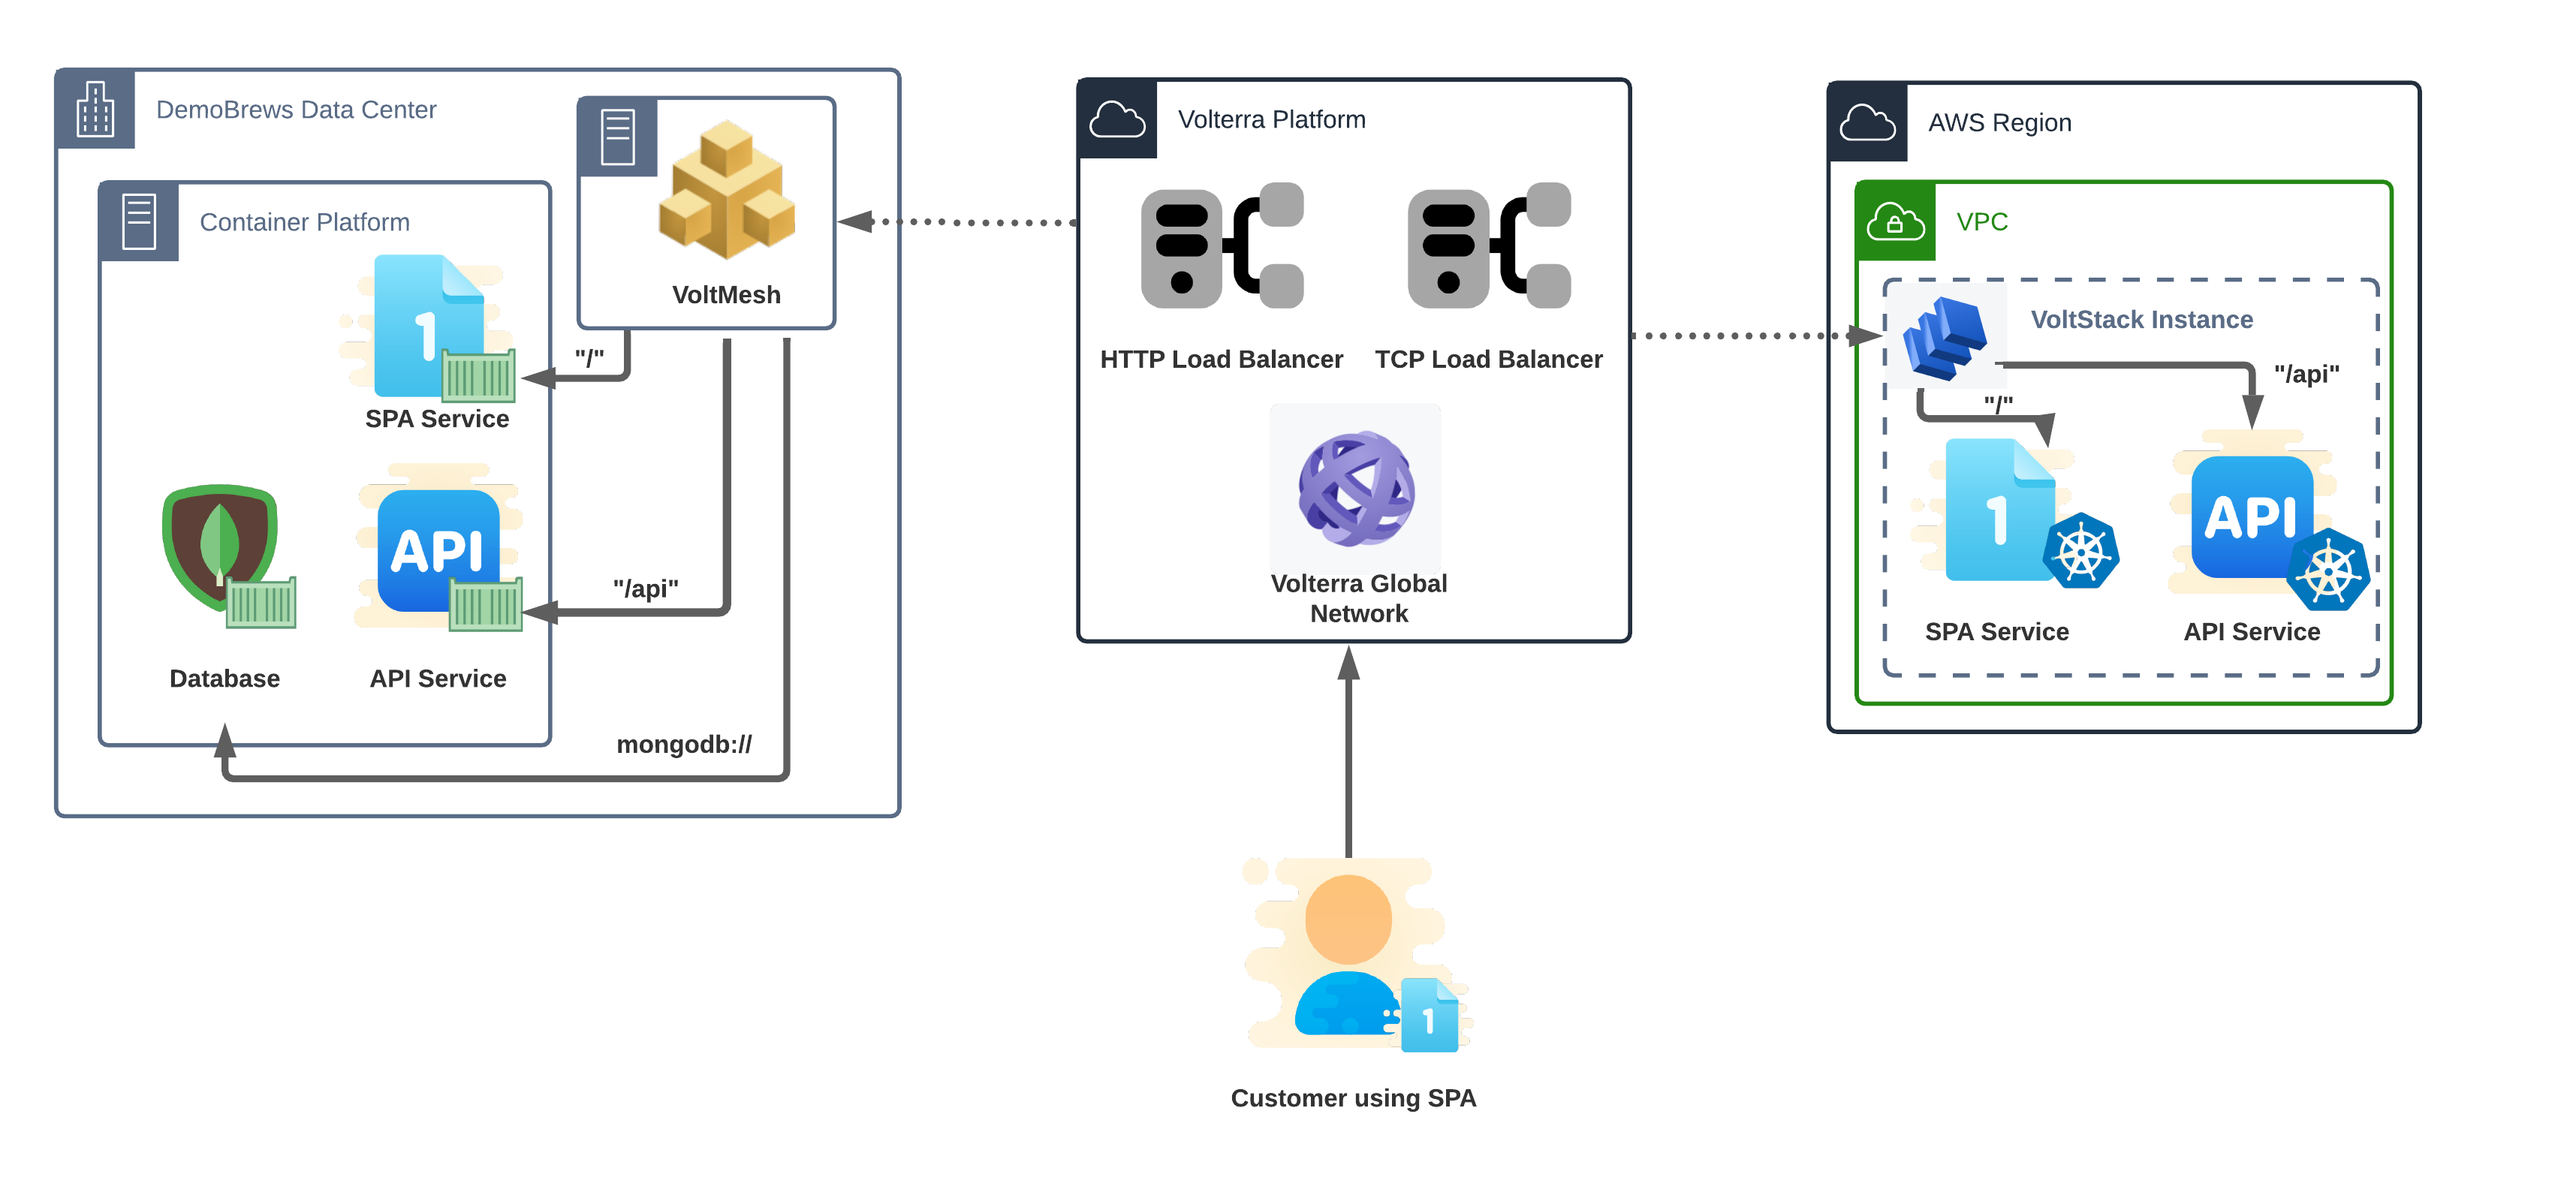
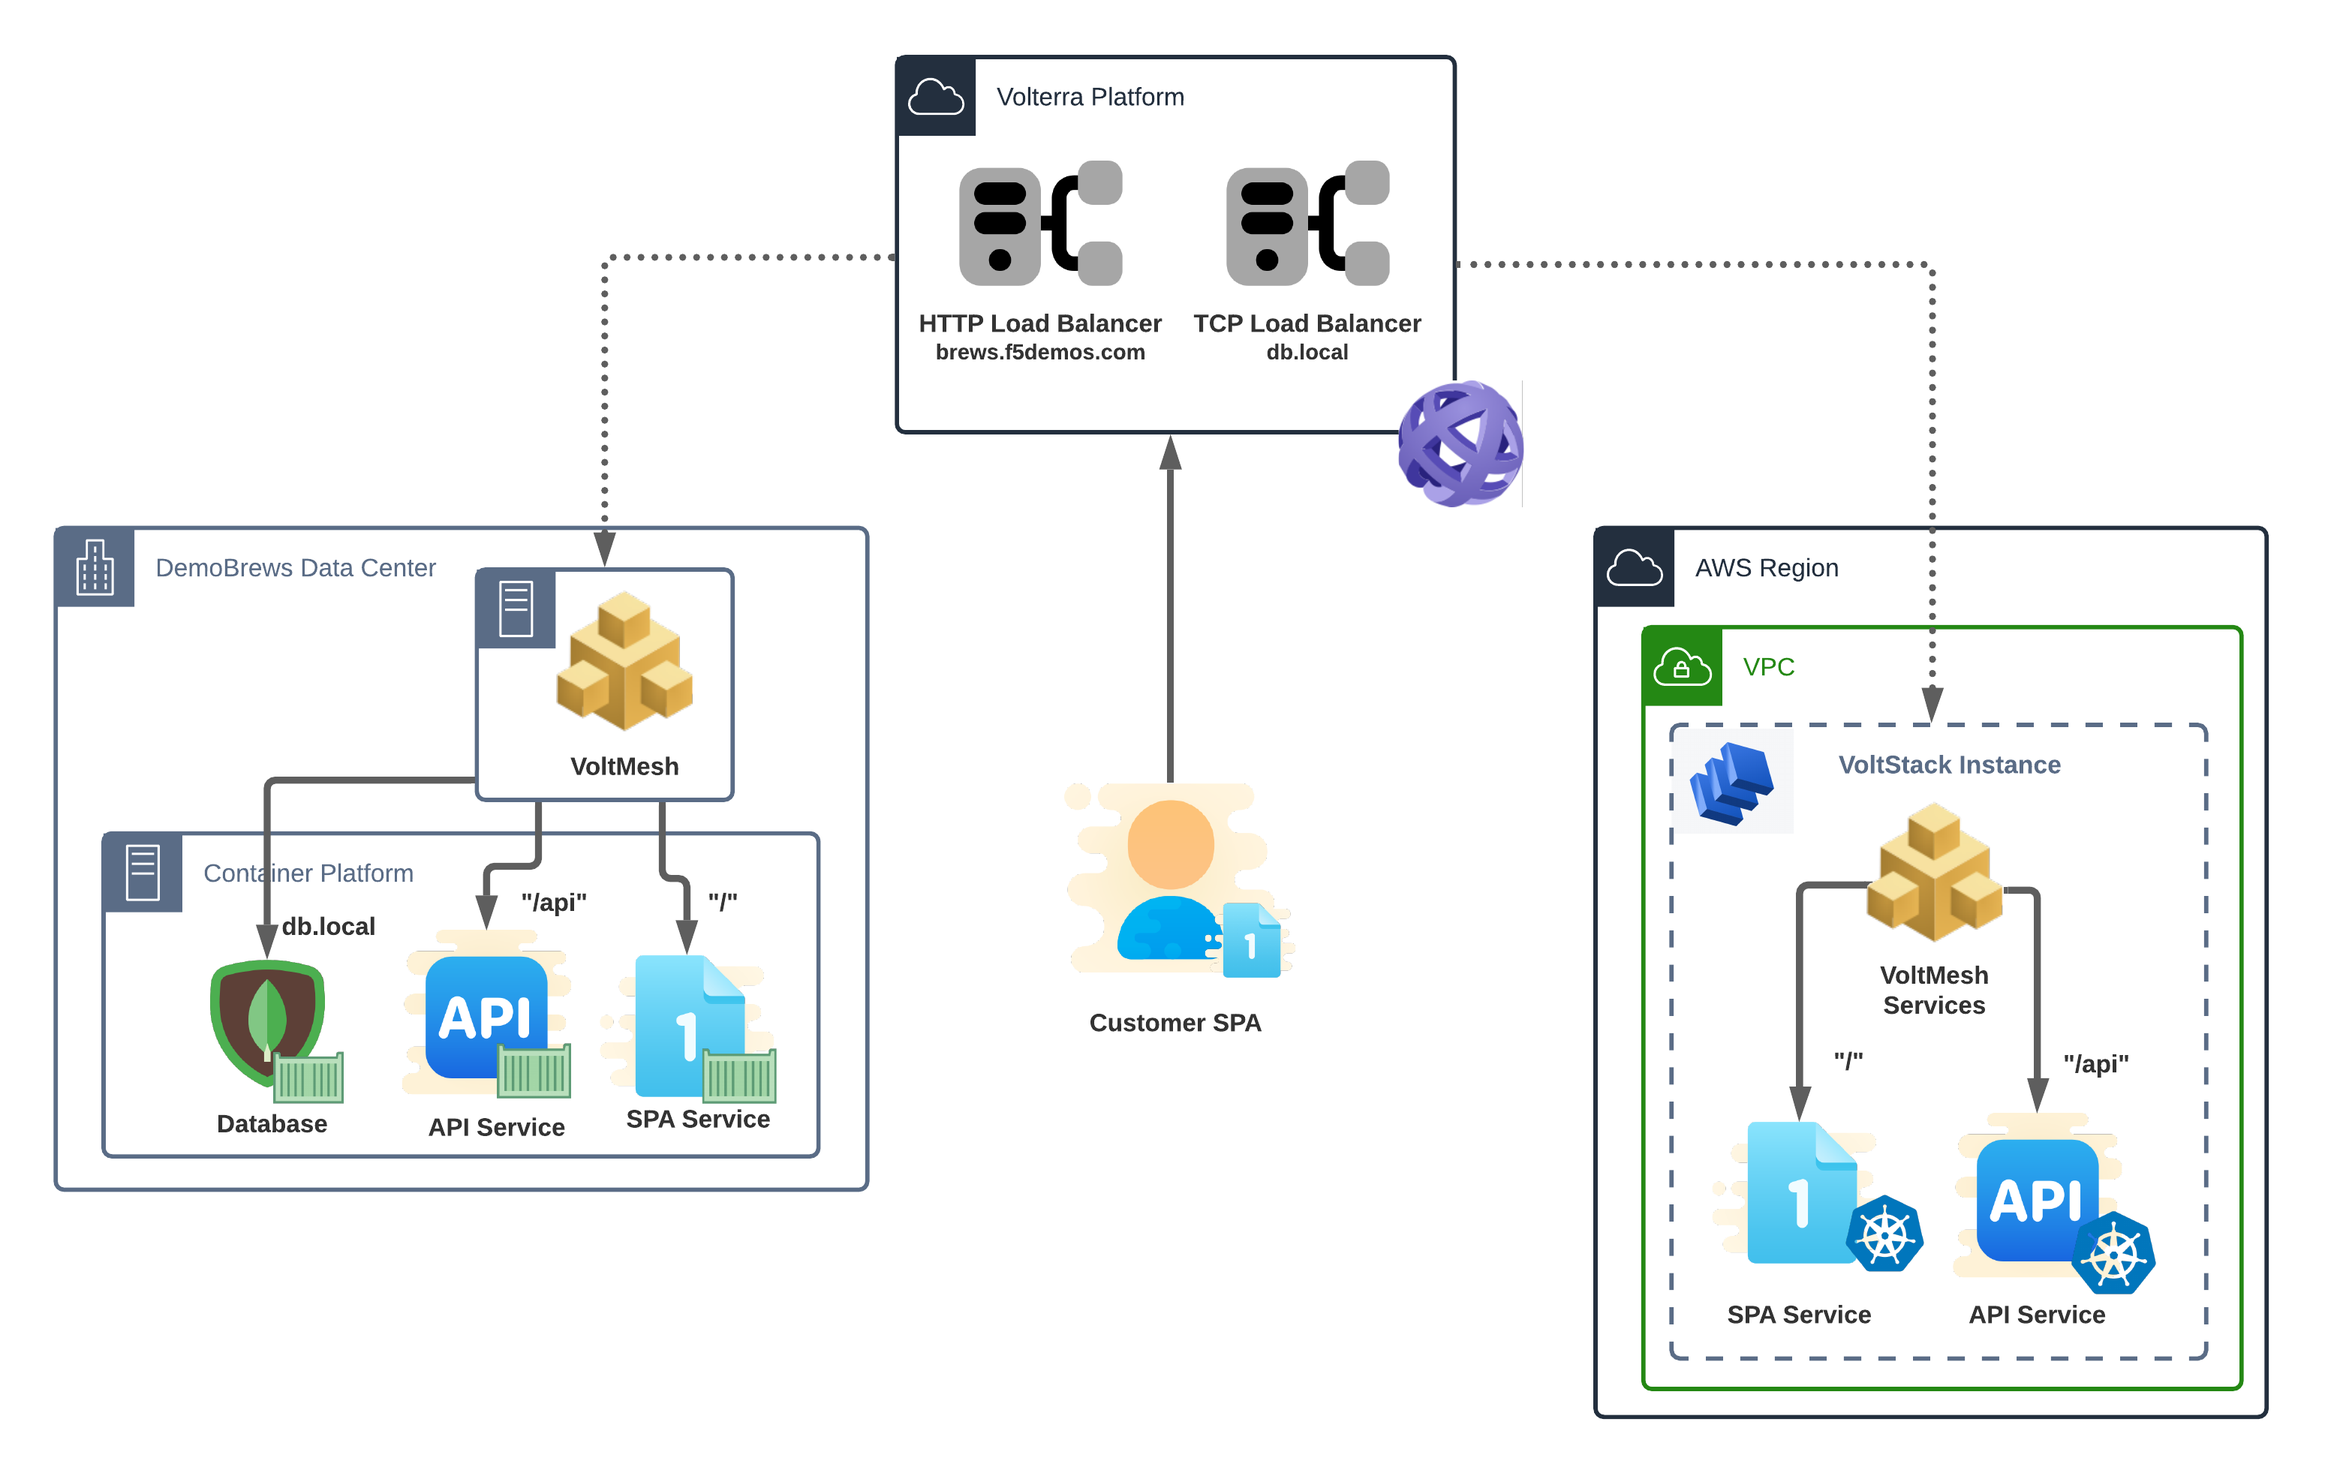
added updated diagrams

Changed region(s): [[0.0, 0.0307, 0.9903, 0.9825], [0.8975, 0.2149, 0.9284, 0.2456]]

diff --git a/application/docs/state4/index.rst b/application/docs/state4/index.rst
@@ -31,5 +31,5 @@ The architecture is now spread across CEs as well as Volterra REs.
    :caption: Contents:
 
 
-.. |state4| image:: ../_static/state4.png
-.. |arch4| image:: ../_static/arch4.png
+.. |state4| image:: ../_static/LabAppFlow4.png
+.. |arch4| image:: ../_static/LabArch4.png

diff --git a/application/docs/state3/index.rst b/application/docs/state3/index.rst
@@ -31,5 +31,5 @@ This state includes the new internally available Inventory service.
  
     internallb
 
-.. |state3| image:: ../_static/state3.png
-.. |arch3| image:: ../_static/arch3.png
+.. |state3| image:: ../_static/LabAppFlow3.png
+.. |arch3| image:: ../_static/LabArch3.png

diff --git a/application/docs/state2/index.rst b/application/docs/state2/index.rst
@@ -44,5 +44,5 @@ host the SPA and API services while the on-prem site will solely host the databa
    originPools
    updateHttpLb
 
-.. |state2| image:: ../_static/state2.png
+.. |state2| image:: ../_static/LabAppFlow2.png
 .. |arch2| image:: ../_static/LabArch2.png

diff --git a/application/docs/state1/index.rst b/application/docs/state1/index.rst
@@ -55,5 +55,5 @@ the internet through the Volterra Global Network.
 
    httplb
 
-.. |state1| image:: ../_static/state1.png
+.. |state1| image:: ../_static/LabAppFlow1.png
 .. |arch1| image:: ../_static/LabArch1.png
